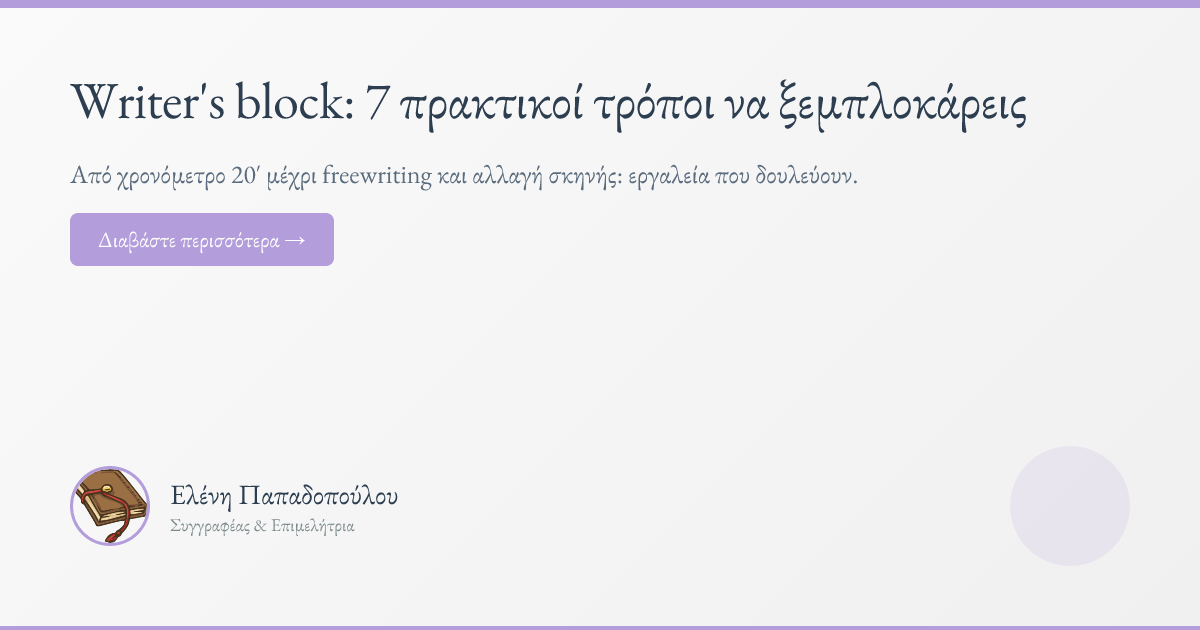
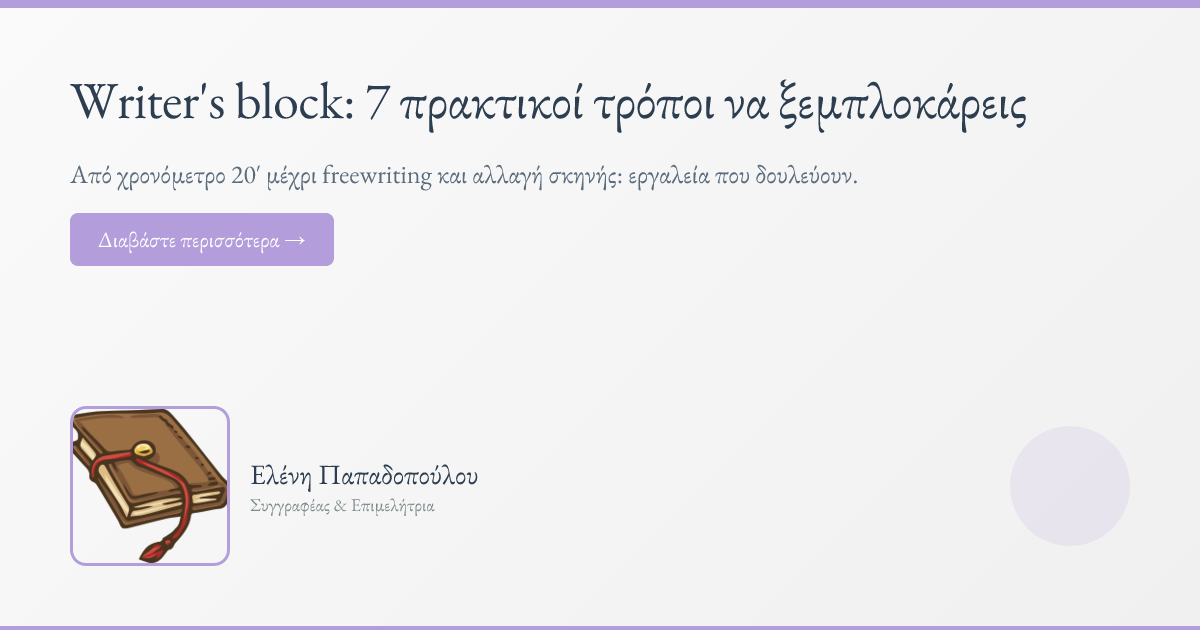
Update Open Graph image dimensions and styles for improved appearance

Changed region(s): [[0.0308, 0.6333, 0.4008, 0.9048]]

diff --git a/scripts/generate-og-images.js b/scripts/generate-og-images.js
@@ -62,10 +62,10 @@ function createOgTemplate(title, description, siteName, accentColor = '#b39ddb',
         type: 'img',
         props: {
           src: imageDataUri,
-          width: 80,
-          height: 80,
+          width: 160,
+          height: 160,
           style: {
-            borderRadius: '50%',
+            borderRadius: '10%',
             marginRight: '20px',
             border: `3px solid ${accentColor}`,
             objectFit: 'cover',
@@ -77,10 +77,10 @@ function createOgTemplate(title, description, siteName, accentColor = '#b39ddb',
         props: {
           style: {
             display: 'flex',
-            width: '80px',
-            height: '80px',
+            width: '160px',
+            height: '160px',
             background: accentColor,
-            borderRadius: '50%',
+            borderRadius: '10%',
             alignItems: 'center',
             justifyContent: 'center',
             marginRight: '20px',
